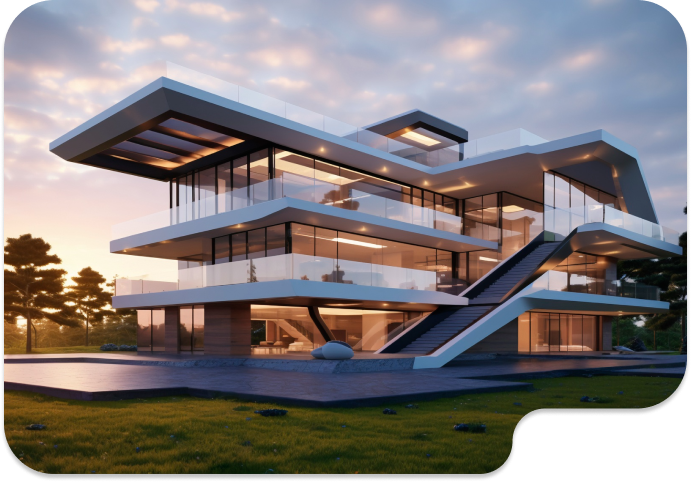
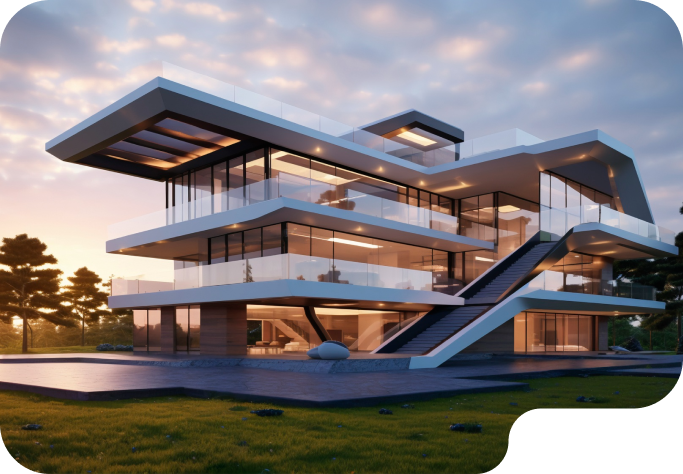
update

Changed region(s): [[0.0, 0.0, 1.0, 1.0], [0.0307, 0.0, 0.0615, 0.0295]]

diff --git a/src/components/Hero.jsx b/src/components/Hero.jsx
@@ -1,13 +1,27 @@
+"use client"
+
 import Image from "next/image";
-import hero from "/public/image/hero.png";
+import hero from "/public/image/hero2.png";
 import { LeftArrowIcon, LocationTwoIcon, RightArrowIcon } from "@/assets/Icons";
+// import Carousel from "./Carousel";
+
+// import { Swiper, SwiperSlide } from "swiper/react";
+// import "swiper/css";
+// import "swiper/css/pagination";
+// import { Pagination } from "swiper/modules";
+
+const slides = [
+  {image:"/image/hero.png"},
+  {image:"/image/hero1.png"},
+  {image:"/image/hero2.png"},
+]
 const Hero = () => {
   return (
     <div className="bg-[#EFEFEF]  ">
       <div className="bg-white">
-        <div className="mt-[70px] flex justify-between w-[1320px] mx-auto pb-[126px] ">
+        <div className="mt-[70px] flex justify-between gap-[93px] w-[1320px] mx-auto pb-[126px] ">
           <div>
-            <h1 className="text-6xl font-bold leading-[80px] text-secondary">
+            <h1 className="text-6xl font-bold leading-[80px] text-secondary ">
               Discover Most
               <span className="block">
                 Suitable <span className="text-primary">Property</span>
@@ -57,12 +71,36 @@ const Hero = () => {
             </div>
           </div>
           <div>
+
+{/* <Carousel>
+  {
+    slides.map((slide,idx)=>(
+      <Image className="rounded-b-[50px] w-[683px] height=[474px] duration-500" key={idx} src={slide?.image} width={683} height={474} alt="loading" priority />
+    ))
+  }
+</Carousel> */}
+
             <Image src={hero} alt="loading" priority />
             <div className="flex  gap-5 justify-end items-center -mt-14 ">
-              <LeftArrowIcon/>
+             <button> <LeftArrowIcon/></button>
 
-              <RightArrowIcon />
+              <button><RightArrowIcon /></button>
             </div>
+
+{/* 
+            <Swiper
+         pagination={true} modules={[Pagination]} className="mySwiper"
+        >
+          {slides.map((slide,idx) => (
+            <SwiperSlide key={idx} >
+            <Image className="w-[683px]"  src={slide?.image} width={683} height={474} alt="loading" priority />
+            </SwiperSlide>
+          ))}
+        </Swiper>
+       */}
+
+   
+
           </div>
         </div>
       </div>
@@ -70,13 +108,13 @@ const Hero = () => {
       <div className=" ">
         <div className="w-[1056px] mx-auto h-[202px] heroBottomShadow bg-white -mt-[76px] px-14 py-[38px]">
           <div>
-            <button className="w-[110px] h-[36px] font-medium leading-6 hover:bg-primary hover:text-white rounded-md bg-transparent text-secondary duration-100 delay-150 border border-secondary hover:border-none">
+            <button className="w-[110px] h-[36px] font-medium leading-6 hover:bg-primary hover:text-white rounded-md bg-transparent text-secondary duration-100 border border-[#98A2B3] hover:border-none">
               Buy
             </button>
-            <button className="mx-[10px] w-[110px] h-[36px] font-medium hover:bg-primary hover:text-white rounded-md bg-transparent text-secondary duration-100 delay-150 border border-secondary hover:border-none">
+            <button className="mx-[10px] w-[110px] h-[36px] font-medium hover:bg-primary hover:text-white rounded-md bg-transparent text-secondary duration-100 border border-[#98A2B3] hover:border-none">
               Sell
             </button>
-            <button className="w-[110px] h-[36px] font-medium hover:bg-primary hover:text-white rounded-md bg-transparent text-secondary duration-100 delay-150 border border-secondary hover:border-none">
+            <button className="w-[110px] h-[36px] font-medium hover:bg-primary hover:text-white rounded-md bg-transparent text-secondary duration-100 border border-[#98A2B3] hover:border-none">
               Rent
             </button>
           </div>

diff --git a/src/components/Category.jsx b/src/components/Category.jsx
@@ -89,7 +89,7 @@ const Category = () => {
                 <div className="relative">
                   <Image
                     src={singleCard?.image}
-                    alt=""
+                    alt="loading"
                     width={312}
                     height={194}
                   />
@@ -100,7 +100,7 @@ const Category = () => {
                     </p>
                   </div>
                 </div>
-                <div className="border rounded-b-3xl py-4 px-4 bg-white ">
+                <div className="border rounded-b-3xl py-4 px-4 bg-white w-[312px]">
                   <div className="flex items-center justify-between	">
                     <h1 className="text-lg font-semibold">
                       ${singleCard?.price}
@@ -130,7 +130,7 @@ const Category = () => {
                       {singleCard?.location}
                     </p>
                   </div>
-                  <button className="text-[#101010] mt-6  border border-[#D0D5DD] h-[41px] w-full rounded-lg hover:bg-primary hover:border-none text-sm font-medium hover:text-white duration-100 delay-150">
+                  <button className="text-[#101010] mt-6  border border-[#D0D5DD] h-[41px] w-full rounded-lg hover:bg-primary hover:border-none text-sm font-medium hover:text-white duration-100 ">
                     View Details
                   </button>
                 </div>

diff --git a/src/components/CityCard.jsx b/src/components/CityCard.jsx
@@ -92,7 +92,7 @@ const CityCard = () => {
                 <div className="relative">
                   <Image
                     src={singleCard?.image}
-                    alt=""
+                    alt="loading"
                     width={312}
                     height={194}
                   />
@@ -103,7 +103,7 @@ const CityCard = () => {
                     </p>
                   </div>
                 </div>
-                <div className="border rounded-b-3xl py-4 px-4 bg-white ">
+                <div className="border rounded-b-3xl py-4 px-4 bg-white w-[312px]">
                   <div className="flex items-center justify-between	">
                     <h1 className="text-lg font-semibold">
                       ${singleCard?.price}
@@ -133,7 +133,7 @@ const CityCard = () => {
                       {singleCard?.location}
                     </p>
                   </div>
-                  <button className="text-[#101010] mt-6  border border-[#D0D5DD] h-[41px] w-full rounded-lg hover:bg-primary hover:border-none text-sm font-medium hover:text-white duration-100 delay-150">
+                  <button className="text-[#101010] mt-6  border border-[#D0D5DD] h-[41px] w-full rounded-lg hover:bg-primary hover:border-none text-sm font-medium hover:text-white duration-100 ">
                     View Details
                   </button>
                 </div>

diff --git a/src/components/Carousel.jsx b/src/components/Carousel.jsx
@@ -1,0 +1,34 @@
+// "use client";
+// import { LeftArrowIcon, RightArrowIcon } from "@/assets/Icons";
+
+// import { useState } from "react";
+
+// const Carousel = ({ children: slides }) => {
+//   const [curr, setCurr] = useState(0);
+
+// const prev =()=>{
+//   setCurr((curr)=>(curr === 0 ? slides.length -1 : curr -1))
+// }
+
+
+//   const next = () => {
+//     setCurr((curr) => (curr === slides.length - 1 ? 0 : curr + 1));
+//   };
+
+//   return (
+//     <div className="overflow-hidden ">
+//       <div className={`flex  transition-transform ease-in-out duration-500 `} style={{transform: `translateX(-${curr * 100} %)`}}>{slides[curr]}</div>
+//       <div className="flex    gap-5 justify-end items-center -mt-14 ">
+//         <button onClick={prev}>
+//           <LeftArrowIcon />
+//         </button>
+
+//         <button onClick={next}>
+//           <RightArrowIcon />
+//         </button>
+//       </div>
+//     </div>
+//   );
+// };
+
+// export default Carousel;

diff --git a/src/components/GetInTouch.jsx b/src/components/GetInTouch.jsx
@@ -67,7 +67,7 @@ const GetInTouch = () => {
                 placeholder="Type your Message here..."
               ></textarea>
 
-              <button className="h-[64px] text-white font-semibold  bg-primary leading-6  rounded-[10px] w-full">
+              <button className="h-12 text-white font-semibold  bg-primary leading-6  rounded-[10px] w-full">
                 SUBMIT
               </button>
             </div>
@@ -75,7 +75,7 @@ const GetInTouch = () => {
         </div>
         <div>
           <iframe
-            className="h-[646px] w-full rounded-[20px]"
+            className="h-[630px] w-full rounded-[20px]"
             src="https://www.google.com/maps/embed?pb=!1m14!1m12!1m3!1d14509.738235559555!2d90.0268032!3d24.6087031!2m3!1f0!2f0!3f0!3m2!1i1024!2i768!4f13.1!5e0!3m2!1sen!2sbd!4v1719654288718!5m2!1sen!2sbd"
             allowFullScreen=""
             loading="lazy"

diff --git a/src/components/Services.jsx b/src/components/Services.jsx
@@ -22,7 +22,7 @@ const Services = () => {
               <p className="mt-[13px] leading-5 text-sm text-[#475467]">
                 {service?.discription}
               </p>
-              <button className="hover:bg-primary h-[55px] w-[156px] hover:font-medium font-regular mt-[26px] hover:text-white border-[#667085] border hover:border-none text-secondary duration-100 delay-150 rounded-[10px] bg-transparent">Learn More</button>
+              <button className="hover:bg-primary h-[55px] w-[156px] hover:font-medium font-regular mt-[26px] hover:text-white border-[#667085] border hover:border-none text-secondary duration-100  rounded-[10px] bg-transparent">Learn More</button>
             </div>
           ))}
         </div>

diff --git a/src/components/ChooseUs.jsx b/src/components/ChooseUs.jsx
@@ -5,7 +5,7 @@ function ChooseUs() {
   
   return (
     <div className="bg-white py-[42px] mb-[120px]">
-  <h1 className="text-[#101010] text-[42px] font-semibold leading-[60px] text-center">WHY CHOOSE <span className="text-primary">US</span> </h1>
+  <h1 className="text-[#101010] text-[40px] font-semibold leading-[60px] text-center">WHY CHOOSE <span className="text-primary">US</span> </h1>
   <div className="w-[1320px] mx-auto">
     <div className="grid grid-cols-3 gap-[93px] mt-9">
       {

diff --git a/src/app/globals.css b/src/app/globals.css
@@ -20,3 +20,4 @@
 .swiper-pagination-clickable .swiper-pagination-bullet {
    display:none;
   }
+
